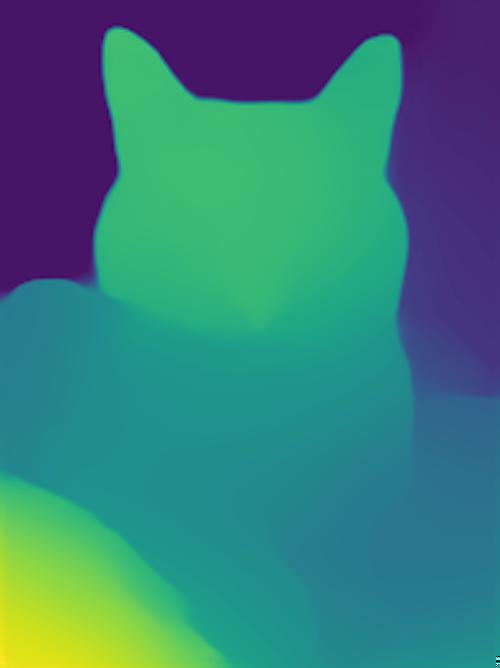
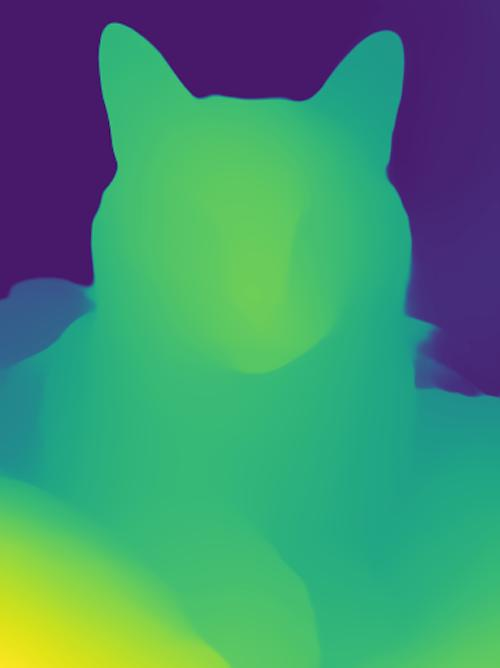
updated result.html for XR

diff --git a/midas/templates/result.html b/midas/templates/result.html
@@ -4,40 +4,138 @@
 <head>
     <title>Depth Map Result</title>
     <style type="text/css">
-    .im {
-        max-width: 33%;
-        height: 200px;
 
-    }
+
+
+        body {
+            display: block; /* The 'body' element is block-level by default */
+            font-family: Helvetica, Arial, sans-serif; /* Set the font family */
+            margin: 0; /* Remove default margin */
+            padding: 0; /* Remove default padding */
+            background-color: #f4f4f4; /* Light gray background color */
+            color: #333; /* Dark text color for readability */
+            line-height: 1.6; /* Spacing between lines of text */
+            font-size: 16px; /* Base font size */
+        }
+
+
+        .im {
+            max-width: 20%;
+            height: auto;
+        }
+
+
+        #ui {
+            position: absolute;
+            display: block;
+            left: 0;
+            top: 0;
+            margin: 0;
+            border: 0;
+            padding: 0;
+            z-index: 100;
+            pointer-events: none;
+        }
+
+        #upload {
+            position: absolute;
+            right: 0;
+            top: 0;
+            display: block;
+            background: none;
+            padding: 1rem;
+            pointer-events: all;
+        }
+
+/* Base styling for the anchor element */
+a {
+    color: #3498db;  /* Link color */
+    text-decoration: none;  /* Removes underline */
+    padding: 10px 20px;  /* Some padding for clickable area */
+    border-radius: 5px;  /* Rounded corners */
+    transition: background-color 0.3s, color 0.3s;  /* Smooth transitions */
+    font-weight: 500;  /* Semi-bold font weight */
+}
+
+/* Hover effect */
+a:hover {
+    background-color: #3498db;  /* Link color becomes the background color */
+    color: #ffffff;  /* Text color becomes white */
+}
+
+/* Focus style for accessibility */
+a:focus {
+    outline: 2px dashed #3498db;
+    outline-offset: 2px;
+}
+
+/* Active state (when the link is being clicked) */
+a:active {
+    background-color: #2980b9;  /* Slightly darker shade of the original color */
+}
+
     </style>
 </head>
 
 <body>
-    <img class="im" src="{{ url_for('uploaded_file', filename=filename) }}" alt="Original Image">
-    <img class="im" src="{{ url_for('outputed_file', filename=depth_filename) }}" alt="Depth Image">
-    <br><br>
-    <a href="/">Upload another image</a>
-    <div id="terrain" style="width: 400px; height: 400px;"></div>
-    <script async src="https://unpkg.com/es-module-shims@1.8.0/dist/es-module-shims.js"></script>
-    <script type="importmap">
+
+
+    <div id="ui">
+        <img class="im" src="{{ url_for('uploaded_file', filename=filename) }}" alt="Original Image">
+        <img class="im" src="{{ url_for('outputed_file', filename=depth_filename) }}" alt="Depth Image">
+
+        <br>
+        <br>
+
+        <div id="upload">
+            <a href="/">Upload another image</a>
+        </div>
+
+    </div>
+    
+    
+<!--     <script async src="{{ url_for('static', filename='libs/three/build/three.module.js') }}"></script>
+ -->    <!--     <script async src="https://unpkg.com/es-module-shims@1.8.0/dist/es-module-shims.js"></script>
+ -->
+
+<script type="importmap">
         {
-    "imports": {
-      "three": "https://unpkg.com/three@0.156/build/three.module.js",
-      "three/addons/": "https://unpkg.com/three@0.156/examples/jsm/"
-    }
+  "imports": {
+    "three": "{{ url_for('static', filename='libs/three/build/three.module.js') }}",
+    "three/addons/": "{{ url_for('static', filename='libs/three/examples/jsm/') }}"
   }
+}
 </script>
-    <script type="module">
-        import * as THREE from 'three';
+
+
+<script type="module">
+
+import * as THREE from 'three';
 import Stats from 'three/addons/libs/stats.module.js';
 import { OrbitControls } from 'three/addons/controls/OrbitControls.js';
+import { VRButton } from 'three/addons/webxr/VRButton.js';
 
-let container, stats;
-let camera, controls, scene, renderer;
+
+let stats;
+let camera, controls, scene, renderer, meshGroup
 let mesh;
 
 let imageWidth, imageHeight;
 let heightData;
+
+
+let xrRefSpace;
+
+let hand1, hand2;
+let controller1, controller2;
+let controllerGrip1, controllerGrip2;
+let conS = [];
+
+let bgColor =  Math.random()*1000000000;
+
+const container = document.createElement('div');
+document.body.appendChild(container);
+
 
 const clock = new THREE.Clock();
 
@@ -75,13 +173,38 @@ imageLoader.load('{{ url_for('outputed_file', filename=depth_filename) }}', func
 
 });
 
+
+
+function onXRSessionStart() {
+    
+    const session = renderer.xr.getSession();
+    
+    console.log("onSessionStart session", session);
+    session.requestReferenceSpace('local').then((referenceSpace) => {
+        xrRefSpace = referenceSpace;
+    });
+
+    //window.sound = createHarmoniousSound(soundFreq)
+    // let trackID = Math.floor(Math.random()*audioData.length)
+    //playAudioFromFileData(audioData[trackID],{loop: true})
+    //playAudioFromFileData(audioData[au.getSoundIndex(audioData, "CandyAmbience")],{loop: true})
+}
+
+function onXRSessionEnd() {
+    console.log("onSessionEnd")
+    if (renderer.xr.isPresenting) {
+        renderer.xr.end();
+    }
+}
+
+
+
 function init(texture) {
 
-    container = document.getElementById('terrain');
 
     camera = new THREE.PerspectiveCamera(60, window.innerWidth / window.innerHeight, 1, 10000);
-    camera.position.set(imageWidth / 2, 800, -imageHeight / 2);
-    camera.lookAt(imageWidth / 2, 0, imageHeight / 2);
+
+
 
     scene = new THREE.Scene();
     scene.background = new THREE.Color(0xefd1b5);
@@ -94,21 +217,51 @@ function init(texture) {
         vertices[j + 1] = heightData[i]*4;
     }
 
-    mesh = new THREE.Mesh(geometry, new THREE.MeshBasicMaterial({ map: texture })); 
-    scene.add(mesh);
+    meshGroup = new THREE.Group();
+    scene.add(meshGroup)
+    window.meshGroup = meshGroup;
 
-    renderer = new THREE.WebGLRenderer();
-    renderer.setPixelRatio(window.devicePixelRatio);
+    camera.lookAt(meshGroup.position);
+    camera.position.set(0,1.7,0);
+
+    mesh = new THREE.Mesh(geometry, new THREE.MeshBasicMaterial({ map: texture })); 
+    meshGroup.add(mesh);
+
+    let someDistance = -3000;  // Adjust this value based on your requirements
+    meshGroup.position.set(0,0,someDistance);
+    meshGroup.rotation.set(1.5,0,0);
+
+
+    // RENDERER
+    renderer = new THREE.WebGLRenderer({ antialias: true, xrCompatible: true });
+
+    renderer.setClearColor(bgColor, 1); // Sets the background color to white with 50% opacity
     renderer.setSize(window.innerWidth, window.innerHeight);
+
+    // switch to false to improve rendering
+    renderer.shadowMap.enabled = false;
+
+    renderer.xr.enabled = true;
+    renderer.xr.addEventListener('sessionstart', onXRSessionStart);
+    renderer.xr.addEventListener('sessionend', onXRSessionEnd);
+
     container.appendChild(renderer.domElement);
+    document.body.appendChild(VRButton.createButton(renderer));
+
+
+    // renderer = new THREE.WebGLRenderer();
+    // renderer.setPixelRatio(window.devicePixelRatio);
+    // renderer.setSize(window.innerWidth, window.innerHeight);
+    // container.appendChild(renderer.domElement);
 
     // Controls
     controls = new OrbitControls(camera, renderer.domElement);
+    controls.target.copy(meshGroup.position)
     controls.update();
 
     // Stats
     stats = new Stats();
-    container.appendChild(stats.dom);
+    //container.appendChild(stats.dom);
 
     window.addEventListener('resize', onWindowResize);
 }
@@ -121,17 +274,92 @@ function onWindowResize() {
 }
 
 function animate() {
-    requestAnimationFrame(animate);
-    render();
-    controls.update();
-    stats.update();
+
+    renderer.setAnimationLoop(render);
+
 }
 
-function render() {
+// function animate() {
+//     requestAnimationFrame(animate);
+//     render();
+//     controls.update();
+    
+//     //stats.update();
+//}
+
+// function render() {
+//     renderer.render(scene, camera);
+// }
+
+
+function render(timeStamp, xrFrame) {
+
+    // if(stats) stats.begin();
+    
+    
+    // if(controls) {
+    //   controls.update();
+    // }
+
+    // //updateMixer();
+
+
+    // if (xrFrame && xrRefSpace) {
+    //     const hands = [...xrFrame.session.inputSources].filter(inputSource => inputSource?.hand);
+
+    //     if (hands.length) {
+    //         updateHands(hands, xrFrame, xrRefSpace);
+    //         handyWorkUpdate(hands, xrRefSpace, xrFrame, poseDetected);
+    //     }
+    // }
+
+    // updateRapier();
+
+    // //updateSound();
+
+    // updatePlanet();
+
+
+    // //
+    // updateDistractor();
+
+    // updateMonkey();
+
+    // updateBallTrajectory();
+
+    // camY()
+
+    // updateVerticalLinePosition()
+
+    // //updateAnalyserCube();
+
+    // shot.updateShotLine(controller1, shot.shotLine1);
+    // shot.updateShotLine(controller2, shot.shotLine2);
+
+
+    // tp.updateTeleportCurve(controller1, tp.teleportLine1, scene.getObjectByName("ground"))
+
+
+    // updateControllers()
+
+    // updateHUD()
+
+    //flyCamera(105, {x:0,y:3,z:0});
+
     renderer.render(scene, camera);
+
+    // if(stats) stats.end();
+
+    // checkPerformance(timeStamp)
+
+
 }
+
+
+console.log("result.html");
 
 </script>
+
 
 </body>
 

diff --git a/midas/app.py b/midas/app.py
@@ -55,8 +55,8 @@ def process_image(filename):
 
     # Load the model
     #model_type = "DPT_Large"     # MiDaS v3 - Large     (highest accuracy, slowest inference speed)
-    #model_type = "DPT_Hybrid"   # MiDaS v3 - Hybrid    (medium accuracy, medium inference speed)
-    model_type = "MiDaS_small"  # MiDaS v2.1 - Small   (lowest accuracy, highest inference speed)
+    model_type = "DPT_Hybrid"   # MiDaS v3 - Hybrid    (medium accuracy, medium inference speed)
+    #model_type = "MiDaS_small"  # MiDaS v2.1 - Small   (lowest accuracy, highest inference speed)
     midas = torch.hub.load("intel-isl/MiDaS", model_type, force_reload=False, trust_repo=True)
     midas_transforms = torch.hub.load("intel-isl/MiDaS", "transforms", force_reload=False)
 
